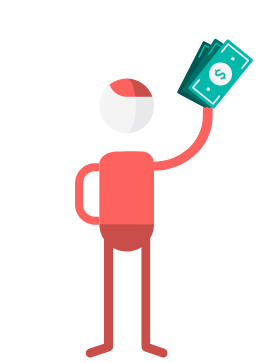
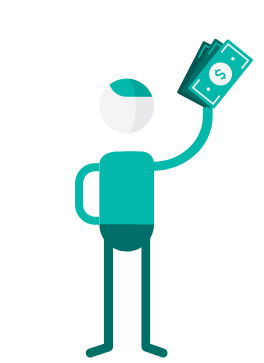
Move view content

Changed region(s): [[0.2727, 0.2727, 0.8182, 1.0], [0.3939, 0.2121, 0.5758, 0.2727]]

diff --git a/source/view/do/do.view.js b/source/view/do/do.view.js
@@ -1,7 +1,7 @@
 import React from 'react';
 
 import Container from '../../component/container/container.component';
-import Spinner from '../../component/spinner/spinner.component';
+import Paragraph from '../../component/paragraph/paragraph.component';
 
 import styles from './do.view.less';
 
@@ -20,12 +20,36 @@ class DoView extends React.Component {
 		return (
 			<div>
 				<Container>
-					<div className={styles.spinnerWrapper}>
-						<Spinner />
-						<p>Tina is typing</p>
+					<div className={styles.imagesWrapper}>
+						<div>
+							<img src={"/asset/image/problem.png"} />
+							<div>1</div>
+						</div>
+						<div>
+							<img src={"/asset/image/money.png"} />
+							<div>2</div>
+						</div>
+						<div>
+							<img src={"/asset/image/solution.png"} />
+							<div>3</div>
+						</div>
 					</div>
+					<div></div>
+					<Paragraph>
+						<p>1. People have problems.</p>
+						<p>2. People are willing to pay money to eliminate their problems. </p>
+						<p>3. Other people can therefore make money on solving people's problems. </p>
+						<br />
+						<p>Not really rocket science! This only explains the foundation to very many business opportunities. </p>
+					</Paragraph>
+					<Paragraph>
+						<p>On the other hand, what really is rocket science is how this super simple pattern gets forgotten and lost, especially in the tech industry. By some weird coincidence, people tend to forget their payed mission of solving someone else’s problem, and the focus is put on technics, solution and market strategy. It’s not the craziest focus, but entirely irrelevant if you don’t have control over the foundation of your business case: people and their problems.</p>
+					</Paragraph>
+					<Paragraph>
+						<p>I am really passionate about solving problems. The passion mostly lies in that I like to do successful things. It gives me a lot more pleasure than doing the unsuccessful ones. As a developer I quickly realized how much more than sharp code skills that is required for a team or an organization to produce relevant problem solving solutions. The thing that separates the failed projects from the successful ones always always always lies in the use and the users. I have seen and done to many “solutions” that end up with no one using it. That's not problem solving. That's wasting time.</p>
+					</Paragraph>
 				</Container>
-				
+		
 			</div>
 		);
 	}

diff --git a/source/view/know/know.view.js b/source/view/know/know.view.js
@@ -1,7 +1,7 @@
 import React from 'react';
 
 import Container from '../../component/container/container.component';
-import Paragraph from '../../component/paragraph/paragraph.component';
+import Spinner from '../../component/spinner/spinner.component';
 
 import styles from './know.view.less';
 
@@ -21,34 +21,10 @@ class KnowView extends React.Component {
 		return (
 			<div>
 				<Container>
-					<div className={styles.imagesWrapper}>
-						<div>
-							<img src={"/asset/image/problem.png"} />
-							<div>1</div>
-						</div>
-						<div>
-							<img src={"/asset/image/money.png"} />
-							<div>2</div>
-						</div>
-						<div>
-							<img src={"/asset/image/solution.png"} />
-							<div>3</div>
-						</div>
+					<div className={styles.spinnerWrapper}>
+						<Spinner />
+						<p>Tina is typing</p>
 					</div>
-					<div></div>
-					<Paragraph>
-						<p>1. People have problems.</p>
-						<p>2. People are willing to pay money to eliminate their problems. </p>
-						<p>3. Other people can therefore make money on solving people's problems. </p>
-						<br />
-						<p>Not really rocket science! This only explains the foundation to very many business opportunities. </p>
-					</Paragraph>
-					<Paragraph>
-						<p>On the other hand, what really is rocket science is how this super simple pattern gets forgotten and lost, especially in the tech industry. By some weird coincidence, people tend to forget their payed mission of solving someone else’s problem, and the focus is put on technics, solution and market strategy. It’s not the craziest focus, but entirely irrelevant if you don’t have control over the foundation of your business case: people and their problems.</p>
-					</Paragraph>
-					<Paragraph>
-						<p>I am really passionate about solving problems. The passion mostly lies in that I like to do successful things. It gives me a lot more pleasure than doing the unsuccessful ones. As a developer I quickly realized how much more than sharp code skills that is required for a team or an organization to produce relevant problem solving solutions. The thing that separates the failed projects from the successful ones always always always lies in the use and the users. I have seen and done to many “solutions” that end up with no one using it. That's not problem solving. That's wasting time.</p>
-					</Paragraph>
 				</Container>
 				
 			</div>

diff --git a/source/view/do/do.view.less b/source/view/do/do.view.less
@@ -1,15 +1,35 @@
 @import '../../config/variables';
 @import '../../config/mixins';
 
-.spinnerWrapper {
-    text-align: center;
+
+
+.imagesWrapper {
+    max-width: 100%;
     .flex-display(flex);
-    .flex-direction(column);
-    .justify-content(flex-start);
-    .align-items(center);
 
-    p {
-        font-style: italic;
+    &>div {
+        .flex-grow(1);
+        text-align: center;
+
+        img {
+            max-width: 100%;
+            max-height: 100%;
+            width: 80%;
+            height: auto;
+        }
+
+        &>div {
+            font-size: 1.2rem;
+            color: @green_color;
+            .border-radius(50%);
+            height: 2.5rem;
+            width:2.5rem;
+            background: @gray_color_dark;
+            border: 1px solid @green_color;
+            margin:1rem auto;
+            .flex-display(flex);
+            .align-items(center);
+            .justify-content(center);
+        }
     }
-
 }

diff --git a/source/view/know/know.view.less b/source/view/know/know.view.less
@@ -1,33 +1,15 @@
 @import '../../config/variables';
 @import '../../config/mixins';
 
-.imagesWrapper {
-    max-width: 100%;
+.spinnerWrapper {
+    text-align: center;
     .flex-display(flex);
+    .flex-direction(column);
+    .justify-content(flex-start);
+    .align-items(center);
 
-    &>div {
-        .flex-grow(1);
-        text-align: center;
-
-        img {
-            max-width: 100%;
-            max-height: 100%;
-            width: 80%;
-            height: auto;
-        }
-
-        &>div {
-            font-size: 1.2rem;
-            color: @red_color;
-            .border-radius(50%);
-            height: 2.5rem;
-            width:2.5rem;
-            background: @gray_color_dark;
-            border: 1px solid @red_color;
-            margin:1rem auto;
-            .flex-display(flex);
-            .align-items(center);
-            .justify-content(center);
-        }
+    p {
+        font-style: italic;
     }
+
 }

diff --git a/source/component/backgroundImageViewer/doImage.component.js b/source/component/backgroundImageViewer/doImage.component.js
@@ -12,8 +12,10 @@ class DoImage extends React.Component {
     }
 
     render() {
+        let faded = this.props.faded ? styles.faded : '';
+
         return (
-            <svg className={styles.svg} viewBox="4039.952 5596 1861.244 444.001">
+            <svg className={styles.svg + ' '+ faded} viewBox="4039.952 5596 1861.244 444.001">
             <g id="Group_109" data-name="Group 109" transform="translate(4007 4959)">
             
             {/* pencil person */}

diff --git a/source/component/backgroundImageViewer/backgroundImageViewer.component.js b/source/component/backgroundImageViewer/backgroundImageViewer.component.js
@@ -59,7 +59,13 @@ const BackgroundImageViewer = observer(class BackgroundImageViewer extends React
     else if(renderType && renderType.title == 'do') {
       return (
         <div className={styles.backgroundWrapper + ' ' +minimized}>
+         
+          <div className={styles.faded}>
+          <DoImage faded={true} />
+         </div>
+         <div className={styles.colored}>
           <DoImage />
+         </div>
         </div>
       );
     }

diff --git a/source/component/backgroundImageViewer/doImage.component.less b/source/component/backgroundImageViewer/doImage.component.less
@@ -95,3 +95,22 @@
   .cls13 {
     fill: #4c6064;
   }
+
+  .faded {
+    .cls1, 
+    .cls2, 
+    .cls3, 
+    .cls4, 
+    .cls5, 
+    .cls6, 
+    .cls7, 
+    .cls8, 
+    .cls9, 
+    .cls10, 
+    .cls11, 
+    .cls12, 
+    .cls13
+    {
+      fill: @gray_color_darker;
+    }
+  }
